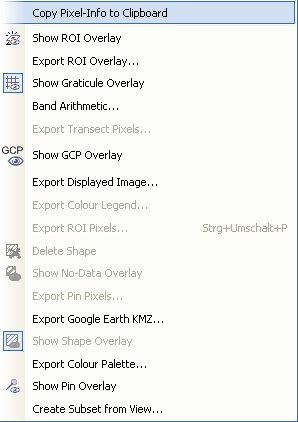
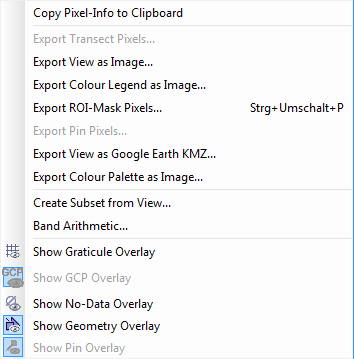
update Help
git-svn-id: https://www.brockmann-consult.de/svn/os/beam-4.x/trunk@7760 d90d2d48-2b33-0410-a973-e72f85796a02

Changed region(s): [[0.0, 0.0, 1.0, 1.0], [0.6946, 0.2758, 0.9664, 0.337], [0.6644, 0.5209, 0.9664, 0.5515]]

diff --git a/beam-help/src/main/resources/doc/help/visat/ProductSceneView.html b/beam-help/src/main/resources/doc/help/visat/ProductSceneView.html
@@ -82,44 +82,36 @@
         the pixel view) to the clipboard. This copies information as tabulator-separated
         text and may therefore be pasted directly into a spreadsheet application (e.g. MS Excel)
     </li>
-    <li><b>Delete Shape</b> - deletes the current geometric shape from this image
-        view, if there is any
-    </li>
-    <li><b><a href="ExportImage.html">Export Displayed Image</a></b> - exports
+    <li><b><a href="ExportTransectPixels.html">Export Transect Pixels</a></b> - exports the pixels of a transect</li>
+    <li><b><a href="ExportImage.html">Export View as Image</a></b> - exports
         the current image to an image file format (JPEG, PNG, TIFF, BMP)
     </li>
-    <li><b><a href="ExportROIOverlay.html">Export ROI Overlay</a></b>
-        - exports the current ROI overlay from this image view as a bitmask image
+    <li><a href="ExportColorLegend.html"><b>Export Colour Legend as Image</b></a> - exports an image of the colour legend</li>
+    <li><b><a href="ExportMaskPixels.html">Export ROI-Mask Pixels</a></b> - export pixel values of a ROI-Mask to clipboard or file
     </li>
+    <li><a href="ExportKml.html"><b>Export Google Earth KMZ</b></a> - exports the current Image to a KMZ file supported
+        by Google
+        Earth
+    </li>
+    <li><b><a href="ProductSubsetDialog.html">Create Subset from View</a></b> - opens a new product subset dialog,
+        with predefined spatial subset scene by the actual image view
+    </li>
+    <li><b><a href="BandArithmetics.html">Band Arithmetic...</a></b> - opens the Band Arithmetic dialog</li>
     <li><b><a href="ShowGraticuleOverlay.html">Show Graticule
         Overlay</a></b> - toggles the visibility state of the graticule overlay
     </li>
-    <li><b><a href="ShapeAndROIHandling.html">Show Shape
-        Overlay</a></b> - toggles the visibility state of the shape overlay
+    <li><b><a href="GcpManagement.html">Show GCP Overlay</a></b>
+        - toggles the visibility state of the GCP overlay
     </li>
     <li><b><a href="NoDataOverlay.html">Show No-Data
         Overlay</a></b> - toggles the visibility state of the no-data overlay
     </li>
     <li><b><a href="BandArithmetics.html">Band Arithmetic...</a></b> - opens the Band Arithmetic dialog</li>
-    <li><b><a href="ExportTransectPixels.html">Export Transect Pixels</a></b> - exports the pixels of a transect</li>
-    <li><a href="ExportColorLegend.html"><b>Export Color Legend</b></a> - exports an image of the colour legend</li>
-    <li><a href="ExportKml.html"><b>Export Google Earth KMZ</b></a> - exports the current Image to a KMZ file supported
-        by Google
-        Earth
-    </li>
     <li><b><a href="ShapeAndROIHandling.html">Show ROI Overlay</a></b>
         - toggles the visibility state of the ROI overlay
     </li>
-    <li><b><a href="ExportROIPixels.html">Export ROI pixels</a></b> - export pixel values of a ROI to clipboard or file
-    </li>
     <li><b><a href="PinManagement.html">Show Pin Overlay</a></b>
         - toggles the visibility state of the pin overlay
-    </li>
-    <li><b><a href="GcpManagement.html">Show GCP Overlay</a></b>
-        - toggles the visibility state of the GCP overlay
-    </li>
-    <li><b><a href="ProductSubsetDialog.html">Create Subset from View</a></b> - opens a new product subset dialog,
-        with predefined spatial subset scene by the actual image view
     </li>
 </ul>
 
